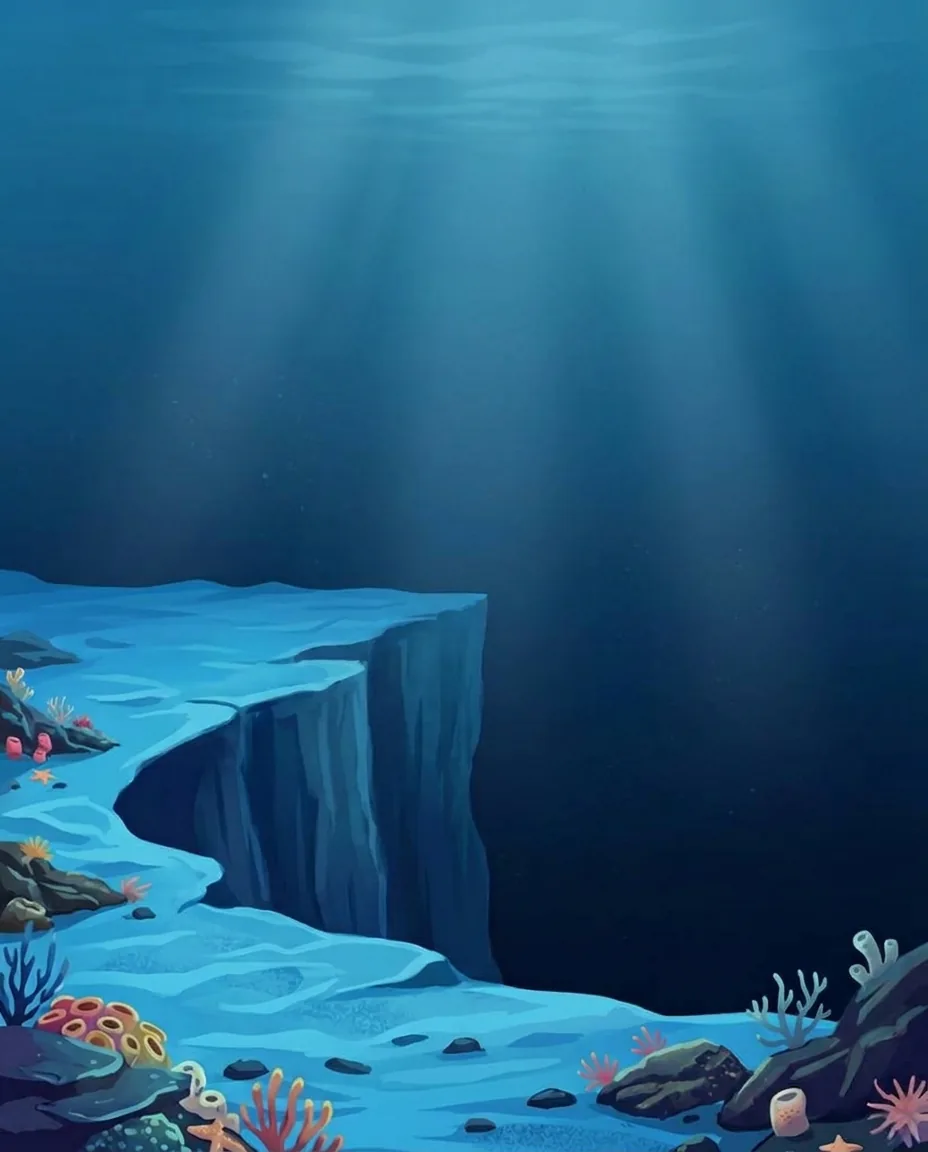
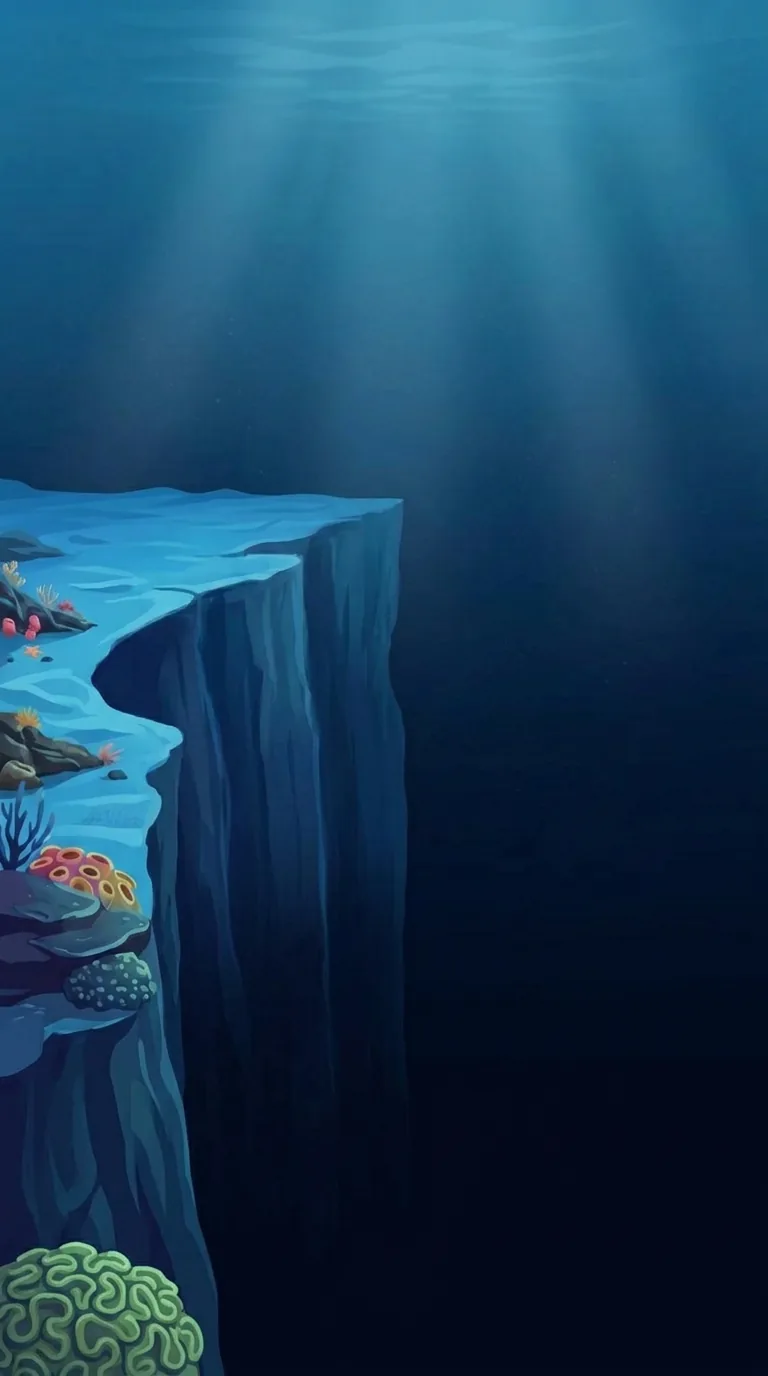
Descend into each new zone from the Matriarch's screen
Depthless now marks every zone change with a drop-off. Beating the Matriarch on
10, 20, 30 or 40 arms the swim-east prompt as usual, the player crosses into that
zone's (a) screen, and the way out of that screen is *down*: the art is a shelf
edge with open water running off the bottom of the frame, and the prompt sits at
the bottom of the water pointing down, reading "Descend Deeper / Into the Dark".
Swimming through the floor opens the first level of the next zone, entered from
the top.

Those four levels are the only ones that are both a zone boundary and a Matriarch
level, which is what makes the descent the boss's reward rather than a thing that
happens every ten levels for its own sake. There is deliberately none past 40:
the Hadal is the last zone, so the Matriarchs Depthless keeps spawning below it
clear straight through as they always did. The mid-zone screens - 17a, 29a, 34a
and 39a - stay ordinary east crossings, so a descent always means a new zone.

The Campaign's 10a takes the new art and descends too, though swimming down there
still ends the run at the title rather than leading anywhere deeper.

Implementation notes:

- `descend` on a story screen picks which prompt is armed, and movePlayer reads
  the same flag to decide which edge ends the screen, so the arrow and the way
  out can never disagree.
- The floor clamp lifts while a descent is armed. clampEntityY normally holds an
  entity three units clear of the bottom, which parked the player just short of
[…]

diff --git a/src/game.ts b/src/game.ts
@@ -1159,6 +1159,8 @@ export class Game {
   private bannerEl: HTMLDivElement;
   private bannerTimeout: ReturnType<typeof setTimeout> | null = null;
   private newWatersPromptEl: HTMLDivElement;
+  /** The descent prompt, at the bottom of the water. Null on a build whose markup predates it. */
+  private descendPromptEl: HTMLDivElement | null;
   private pauseOverlayEl: HTMLDivElement;
   private schoolBtnWrap: HTMLDivElement;
   private megaPodBtnWrap: HTMLDivElement | null = null;
@@ -1307,6 +1309,7 @@ export class Game {
     this.sharkGuideList = inputs.sharkGuideList;
     this.bannerEl = inputs.banner;
     this.newWatersPromptEl = inputs.newWatersPrompt;
+    this.descendPromptEl = document.getElementById('descendPrompt') as HTMLDivElement | null;
     this.pauseOverlayEl = inputs.pauseOverlay;
     this.schoolBtnWrap = inputs.schoolBtnWrap;
     this.megaPodBtnWrap = document.getElementById('megaPodBtnWrap') as HTMLDivElement | null;
@@ -2569,7 +2572,7 @@ export class Game {
     this.shakeTime = 0;
     this.stage?.position.set(0, 0);
     this.awaitingNewWaters = false;
-    this.newWatersPromptEl.classList.remove('visible');
+    this.clearExitPrompts();
     // A run that ended or restarted mid-crossing must not resume on the story screen, nor leave
     // its scenery behind in the water of whatever level is built next.
     this.storyInterstitial = null;
@@ -3925,11 +3928,52 @@ ${cleared.name} Zone Liberated
     }
   }
 
-  /** Put the swim-east prompt up on a story screen. Immediate on most, earned on 0a. */
+  /**
+   * Put the exit prompt up on a story screen. Immediate on most, earned on 0a.
+   *
+   * A descent screen points down and says so; every other screen points east as it always has.
+   * Which one is showing is also what `movePlayer` reads to decide which edge ends the screen, so
+   * the arrow and the way out can never disagree.
+   */
   private armStoryScreenExit(): void {
     if (!this.storyInterstitial) return;
     this.awaitingNewWaters = true;
-    this.newWatersPromptEl.classList.add('visible');
+    if (this.storyInterstitial.descend) {
+      this.positionDescendPrompt();
+      this.descendPromptEl?.classList.add('visible');
+    } else {
+      this.newWatersPromptEl.classList.add('visible');
+    }
+  }
+
+  /**
+   * Sits the descent arrow just inside the bottom of the water. It is positioned against the
+   * canvas rather than against its own containing block, which is the whole canvas-wrap - that
+   * also holds the on-screen controls, so a plain CSS offset put the arrow over the joystick
+   * instead of over the edge the player is being told to swim through.
+   */
+  private positionDescendPrompt(): void {
+    const el = this.descendPromptEl;
+    const wrap = el?.parentElement;
+    if (!el || !wrap) return;
+    // Measured off the laid-out canvas by rect rather than off `this.canvas`, which is the element
+    // handed to the constructor - Pixi renders into its own canvas, so the original reports an
+    // offsetTop and offsetHeight of zero and the arrow ends up at the top of the page.
+    const live = wrap.querySelector('canvas');
+    if (!live) return;
+    const gap = wrap.getBoundingClientRect().bottom - live.getBoundingClientRect().bottom;
+    el.style.bottom = `${Math.max(0, gap) + 12}px`;
+  }
+
+  /** Takes down whichever exit prompt is showing. */
+  private clearExitPrompts(): void {
+    this.newWatersPromptEl.classList.remove('visible');
+    this.descendPromptEl?.classList.remove('visible');
+  }
+
+  /** True while the screen being crossed is left downward rather than east. */
+  private get exitIsDownward(): boolean {
+    return this.storyInterstitial?.descend === true;
   }
 
   /** Tears down whichever spectacle is running. Safe to call when none is. */
@@ -4070,7 +4114,7 @@ ${cleared.name} Zone Liberated
       this.timer = null;
     }
     this.awaitingNewWaters = false;
-    this.newWatersPromptEl.classList.remove('visible');
+    this.clearExitPrompts();
     this.onReturnToTitle?.();
   }
 
@@ -4135,7 +4179,7 @@ Let the pack pass`, 'storm', 3200);
 
   private async advanceLevel(): Promise<void> {
     this.awaitingNewWaters = false;
-    this.newWatersPromptEl.classList.remove('visible');
+    this.clearExitPrompts();
 
     // A story screen is crossed on the way between two levels, so this runs twice for one level
     // change: once to swim onto the screen, and again - with storyInterstitial already set - to
@@ -6006,14 +6050,28 @@ Let the pack pass`, 'storm', 3200);
     if (dx !== 0 || dy !== 0) {
       const step = maxSpeed * throttle;
       const rawX = this.player._x + dx * step;
-      if (this.awaitingNewWaters && dx > 0 && rawX >= SIZE_X) {
+      const rawY = this.player._y + dy * step;
+      // A descent screen is left through the floor rather than the side: the art is a drop-off
+      // with open water running off the bottom of the frame, so swimming down out of the arena is
+      // what carries the player into the next zone. Every other screen still leaves east.
+      if (this.awaitingNewWaters && this.exitIsDownward && dy > 0 && rawY >= SIZE_Y) {
+        // Re-entered at the top of the next level, having come down into it.
+        this.player._y = 2;
+        this.player._x = wrapX(rawX);
+        this.advanceLevel().catch((err) => console.warn('Level transition failed:', err));
+      } else if (this.awaitingNewWaters && !this.exitIsDownward && dx > 0 && rawX >= SIZE_X) {
         this.player._x = 2;
         this.player.lastX = 2;
         this.advanceLevel().catch((err) => console.warn('Level transition failed:', err));
       } else {
         this.player._x = wrapX(rawX);
+        // The floor clamp lifts while a descent is armed. It normally holds an entity three units
+        // clear of the bottom, which would have parked the player just short of the one edge the
+        // screen is telling them to swim through - the vertical counterpart of wrapX letting rawX
+        // run past SIZE_X for the swim east.
+        const descending = this.awaitingNewWaters && this.exitIsDownward;
+        this.player._y = descending ? Math.max(2, rawY) : clampEntityY(rawY, 2);
       }
-      this.player._y = clampEntityY(this.player._y + dy * step, 2);
     }
   }
 

diff --git a/src/levels.ts b/src/levels.ts
@@ -160,10 +160,17 @@ export interface StoryInterstitial {
    */
   spectacle?: 'sharkExodus' | 'tigerPatrol';
   /**
-   * Holds the swim-east prompt back until the spectacle has played out, so the screen is watched
-   * before it is crossed. Without it the prompt is up the moment the screen appears.
+   * Holds the exit prompt back until the spectacle has played out, so the screen is watched before
+   * it is crossed. Without it the prompt is up the moment the screen appears.
    */
   exitAfterSpectacle?: boolean;
+  /**
+   * A screen left by swimming *down* off the bottom of the arena rather than east off the side.
+   * The four Depthless zone transitions are drop-offs at the edge of a shelf, and the art is drawn
+   * so the dark water runs off the bottom of the frame - the way out of the picture is down, and
+   * the prompt points that way and says so.
+   */
+  descend?: boolean;
   /**
    * Nothing reads this yet. The screens are wordless for now and the art carries them on its own,
    * but characters and dialogue are planned for them, so the shape that will hold it is named here
@@ -174,14 +181,28 @@ export interface StoryInterstitial {
 
 export const STORY_INTERSTITIALS: StoryInterstitial[] = [
   { afterLevel: OPENING_STORY_LEVEL, mode: 'campaign', id: '0a', spectacle: 'tigerPatrol', exitAfterSpectacle: true },
-  { afterLevel: 10, mode: 'campaign', id: '10a', endsRun: true, spectacle: 'sharkExodus' },
-  { afterLevel: 10, mode: 'endless', id: '10a' },
+  { afterLevel: 10, mode: 'campaign', id: '10a', endsRun: true, descend: true, spectacle: 'sharkExodus' },
+  // The four Depthless zone transitions. Each sits on a Matriarch level and on a zone boundary -
+  // the two coincide at every tenth level - and each is left by descending into the drop.
+  { afterLevel: 10, mode: 'endless', id: '10a', descend: true },
+  { afterLevel: 20, mode: 'endless', id: '20a', descend: true },
+  { afterLevel: 30, mode: 'endless', id: '30a', descend: true },
+  { afterLevel: 40, mode: 'endless', id: '40a', descend: true },
+  // Mid-zone story beats. Ordinary crossings: no Matriarch, no descent, swim east and carry on.
   { afterLevel: 17, mode: 'endless', id: '17a' },
   { afterLevel: 29, mode: 'endless', id: '29a' },
-  { afterLevel: 30, mode: 'endless', id: '30a' },
   { afterLevel: 34, mode: 'endless', id: '34a' },
   { afterLevel: 39, mode: 'endless', id: '39a' },
 ];
+
+/**
+ * Every level whose clear leads onto a descent screen, in order. There is deliberately none past
+ * 40: the Hadal is the last zone, so there is nothing below it to announce, and the Matriarchs
+ * Depthless keeps spawning every tenth level past that clear straight through as they always did.
+ */
+export function descentLevels(mode: 'campaign' | 'endless'): number[] {
+  return STORY_INTERSTITIALS.filter((s) => s.mode === mode && s.descend).map((s) => s.afterLevel);
+}
 
 /** The story screen that follows this level in this mode, if there is one. */
 export function storyInterstitialAfter(

diff --git a/src/levels.test.ts b/src/levels.test.ts
@@ -6,6 +6,7 @@ import {
   LEVELS,
   CAMPAIGN_LARGE_SHARK_COUNTS,
   SMALL_BEFORE_LARGE_UNTIL_LEVEL,
+  descentLevels,
   OPENING_STORY_LEVEL,
   STORY_INTERSTITIALS,
   dealLargeSharkKinds,
@@ -122,7 +123,9 @@ describe('story interstitials', () => {
   const endlessScreens = STORY_INTERSTITIALS.filter((s) => s.mode === 'endless');
 
   it('sits after the levels the art was drawn for', () => {
-    expect(endlessScreens.map((s) => s.afterLevel)).toEqual([10, 17, 29, 30, 34, 39]);
+    expect([...endlessScreens.map((s) => s.afterLevel)].sort((a, b) => a - b)).toEqual([
+      10, 17, 20, 29, 30, 34, 39, 40,
+    ]);
   });
 
   it('names each screen after the level it follows', () => {
@@ -134,7 +137,7 @@ describe('story interstitials', () => {
     expect(storyInterstitialAfter(39, 'endless')?.id).toBe('39a');
     expect(storyInterstitialAfter(9, 'endless')).toBeNull();
     expect(storyInterstitialAfter(11, 'endless')).toBeNull();
-    expect(storyInterstitialAfter(40, 'endless')).toBeNull();
+    expect(storyInterstitialAfter(41, 'endless')).toBeNull();
   });
 
   it('keeps each mode to its own story screens', () => {
@@ -192,6 +195,33 @@ describe('story interstitials', () => {
     expect(opening?.mode).toBe('campaign');
     // Nothing is ever cleared to reach it - there is no level 0 - so it can only be a run's start.
     expect(LEVELS.some((l) => l.level === OPENING_STORY_LEVEL)).toBe(false);
+  });
+
+  it('descends at every zone boundary and nowhere else', () => {
+    // The four boundaries between the five depth zones, which are also the four Matriarch levels
+    // a descent can follow. 50 is the floor of the Hadal: the last zone, with nothing below it.
+    expect(descentLevels('endless')).toEqual([10, 20, 30, 40]);
+    for (const zone of DEPTH_ZONES.slice(0, -1)) {
+      expect(storyInterstitialAfter(zone.lastLevel, 'endless')?.descend).toBe(true);
+    }
+    expect(storyInterstitialAfter(DEPTH_ZONES[DEPTH_ZONES.length - 1].lastLevel, 'endless')).toBeNull();
+  });
+
+  it('descends only from a Matriarch level', () => {
+    // The descent is the reward for the boss, so every one must land on a tenth level.
+    for (const level of descentLevels('endless')) {
+      expect(level % 10).toBe(0);
+      expect(getLevelConfigForMode(level, 'endless').matriarch).toBe(true);
+    }
+  });
+
+  it('keeps the mid-zone screens as ordinary east crossings', () => {
+    // These are story beats rather than zone changes: no Matriarch behind them, no descent.
+    for (const level of [17, 29, 34, 39]) {
+      const screen = storyInterstitialAfter(level, 'endless');
+      expect(screen?.descend).toBeUndefined();
+      expect(getLevelConfigForMode(level, 'endless').matriarch).toBe(false);
+    }
   });
 
   it('tells each beat once, not once per lap of the Endless backgrounds', () => {

diff --git a/src/style.css b/src/style.css
@@ -1796,6 +1796,49 @@ button.mega-shrimp.green {
   opacity: 0.85;
 }
 
+/* The zone descent. Same yellow language as the swim-east prompt, turned through ninety degrees:
+   centred along the bottom of the water, arrow rotated to point down, pulse running downward. */
+/* `bottom` is set from the canvas by armStoryScreenExit: this element's containing block is the
+   whole canvas-wrap, which is considerably taller than the water because it also holds the
+   on-screen controls, so a fixed offset here would float the arrow over the joystick. */
+.descend-prompt {
+  position: absolute;
+  bottom: 18px;
+  left: 50%;
+  transform: translateX(-50%);
+  display: none;
+  flex-direction: column;
+  align-items: center;
+  gap: 4px;
+  z-index: 25;
+  pointer-events: none;
+}
+.descend-prompt.visible { display: flex; animation: descendPulse 1.2s ease-in-out infinite; }
+.descend-prompt .arrow {
+  font-size: 2.2rem;
+  line-height: 1;
+  color: #facc15;
+  text-shadow: 0 0 18px rgba(250, 204, 21, 0.85);
+  transform: rotate(90deg);
+}
+.descend-prompt .label {
+  font-size: 0.78rem;
+  font-weight: 800;
+  color: #facc15;
+  text-shadow: 0 0 10px rgba(250, 204, 21, 0.65);
+  letter-spacing: 0.06em;
+  text-transform: uppercase;
+  white-space: nowrap;
+}
+.descend-prompt .sublabel {
+  font-size: 0.62rem;
+  opacity: 0.85;
+}
+@keyframes descendPulse {
+  0%, 100% { transform: translateX(-50%) translateY(0); }
+  50% { transform: translateX(-50%) translateY(10px); }
+}
+
 @keyframes newWatersPulse {
   0%, 100% { transform: translateY(-50%) translateX(0); }
   50% { transform: translateY(-50%) translateX(10px); }

diff --git a/index.html b/index.html
@@ -281,6 +281,13 @@
         <span class="label">Next Level</span>
         <span class="label sublabel">Pod This Way</span>
       </div>
+      <!-- The descent out of a zone. Its own element rather than a modifier on the one above: it
+           sits at the bottom of the water rather than the right edge, and pulses downward. -->
+      <div class="descend-prompt" id="descendPrompt">
+        <span class="label">Descend Deeper</span>
+        <span class="label sublabel">Into the Dark</span>
+        <span class="arrow">&#10148;</span>
+      </div>
       <div class="school-btn-wrap hidden" id="schoolBtnWrap">
         <button id="schoolBtn" class="school ready">Form Pod!</button>
       </div>
